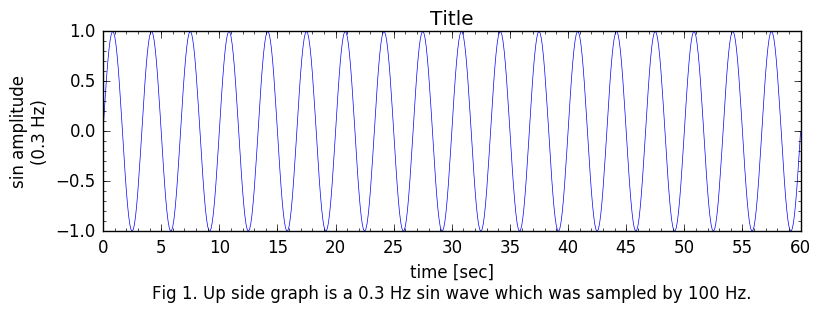
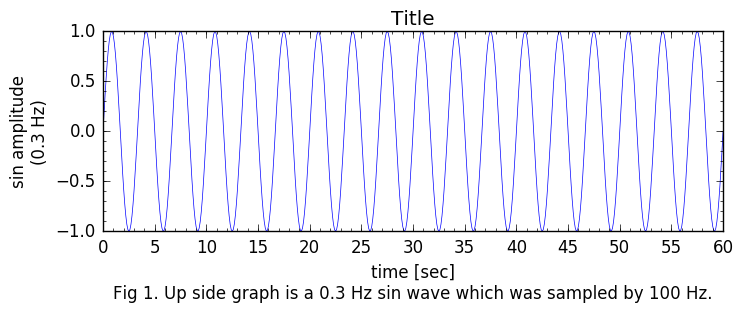
Add files via upload

diff --git a/c2py_Ver00.03_00/plot.py b/c2py_Ver00.03_00/plot.py
@@ -40,7 +40,7 @@ def vec2graph_1(WriteName, X_interval, vec1):
     plt.clf()#メモリのクリア
 
     # Figure インスタンスを生成
-    fig = plt.figure(figsize=(3*3, 1*2.5)) # 3*5, 1*5 # アスペクト比の設定
+    fig = plt.figure(figsize=(8, 1*2.5)) # 3*5, 1*5 # アスペクト比の設定
 
     # Axes インスタンスを生成
     ax1 = fig.add_subplot(111)
@@ -58,7 +58,7 @@ def vec2graph_2(WriteName, X_interval, vec1, vec2):
     plt.clf()#メモリのクリア
 
     # Figure インスタンスを生成
-    fig = plt.figure(figsize=(3*3, 2*2.5)) # 3*5, 1*5 # アスペクト比の設定
+    fig = plt.figure(figsize=(8, 2*2.5)) # 3*5, 1*5 # アスペクト比の設定
 
     # Axes インスタンスを生成
     ax1 = fig.add_subplot(211)
@@ -79,7 +79,7 @@ def vec2graph_3(WriteName, X_interval, vec1, vec2, vec3):
     plt.clf()#メモリのクリア
 
     # Figure インスタンスを生成
-    fig = plt.figure(figsize=(3*3, 3*2.5)) # 3*5, 1*5 # アスペクト比の設定
+    fig = plt.figure(figsize=(8, 3*2.5)) # 3*5, 1*5 # アスペクト比の設定
 
     # Axes インスタンスを生成
     ax1 = fig.add_subplot(311)
